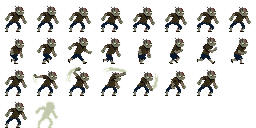
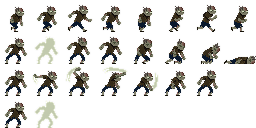
Завершен gameloop, настроены механики нанесения и получения урона

diff --git a/gameScene.py b/gameScene.py
@@ -6,6 +6,8 @@ from gameField import GameField
 import random
 from button import CustomButton
 from animatedSprite import AnimatedSprite
+from enemy import Enemy
+import math
 
 class GameScene(QGraphicsScene):
     def __init__(self, parent=None, width=1200, height=700):
@@ -14,6 +16,14 @@ class GameScene(QGraphicsScene):
         font_id = QFontDatabase.addApplicationFont("source/font/MUNRO-sharedassets0.assets-232.otf")
         font_family = QFontDatabase.applicationFontFamilies(font_id)[0]
         custom_font = QFont(font_family, 14)
+
+        self.stats = {
+                    "record": "0",
+                    "coins": "0",
+                    "damage": "10",
+                    "health": "10",
+                }
+
 
         background = QPixmap("source/bg.png")
         background = background.scaled(width, height, Qt.KeepAspectRatioByExpanding, Qt.SmoothTransformation)
@@ -42,27 +52,18 @@ class GameScene(QGraphicsScene):
         stat_back.setPen(QPen("#673A8A"))
         self.stat_group.addToGroup(stat_back)
 
-        self.stats = {
-            "record": "3",
-            "coins": "324",
-            "attack_speed": "10",
-            "damage": "10",
-            "health": "10",
-            "damage_cost": "20",
-            "health_cost": "20"
-        }
+        
+        self.record_txt = QGraphicsTextItem(f"Рекорд прожитых волн: {self.stats["record"]}")
+        self.record_txt.setDefaultTextColor(Qt.white)
+        self.record_txt.setFont(custom_font)
+        self.record_txt.setPos(20, 20)
+        self.stat_group.addToGroup(self.record_txt)
 
-        record_txt = QGraphicsTextItem(f"Рекорд прожитых волн: {self.stats["record"]}")
-        record_txt.setDefaultTextColor(Qt.white)
-        record_txt.setFont(custom_font)
-        record_txt.setPos(20, 20)
-        self.stat_group.addToGroup(record_txt)
-
-        coin_txt = QGraphicsTextItem(f"Монеты: {self.stats["coins"]}")
-        coin_txt.setDefaultTextColor(Qt.white)
-        coin_txt.setFont(custom_font)
-        coin_txt.setPos(stat_back.boundingRect().width() - 20 - coin_txt.boundingRect().width(), 20)
-        self.stat_group.addToGroup(coin_txt)
+        self.coin_txt = QGraphicsTextItem(f"Монеты: {self.stats["coins"]}")
+        self.coin_txt.setDefaultTextColor(Qt.white)
+        self.coin_txt.setFont(custom_font)
+        self.coin_txt.setPos(stat_back.boundingRect().width() - 20 - self.coin_txt.boundingRect().width(), 20)
+        self.stat_group.addToGroup(self.coin_txt)
 
         anim_lobby = AnimatedSprite("source/hero/lobby2.png", 192, 192, 1, [10])
         anim_lobby.setPos((stat_back.boundingRect().width() - 192) // 2, stat_back.boundingRect().height() // 2 - 130)
@@ -77,7 +78,7 @@ class GameScene(QGraphicsScene):
         health_txt = QGraphicsTextItem(f"Здоровье: {self.stats["health"]}")
         health_txt.setDefaultTextColor(Qt.white)
         health_txt.setFont(custom_font)
-        health_txt.setPos(stat_back.boundingRect().width() // 2 - 20 - coin_txt.boundingRect().width(), 220)
+        health_txt.setPos(stat_back.boundingRect().width() // 2 - 20 - health_txt.boundingRect().width(), 220)
         self.stat_group.addToGroup(health_txt)
 
         self.lobby_group.addToGroup(self.stat_group)
@@ -93,12 +94,7 @@ class GameScene(QGraphicsScene):
         
         self.arena_back = GameField(0, 0, 600, 600)
         self.arena_group.addToGroup(self.arena_back)
-        self.hero = AnimatedSprite("source/hero/hero.png", 96, 96, 4, [10, 16, 7, 4])
-        self.hero_x = (self.arena_back.boundingRect().width() - 96) // 2
-        self.hero_y = (self.arena_back.boundingRect().height() - 96) // 2
-        self.hero.setPos((self.arena_back.boundingRect().width() - 96) // 2,
-                         (self.arena_back.boundingRect().height() - 96) // 2)
-        self.arena_group.addToGroup(self.hero)
+        
 
         self.enemies = []
 
@@ -108,38 +104,83 @@ class GameScene(QGraphicsScene):
         self.arena_group.setAcceptHoverEvents(True) 
         
         # Для плавного движения
-        self.move_speed = 5
+        self.move_speed = 3
         self.keys_pressed = {
             Qt.Key_W: False,
             Qt.Key_A: False,
             Qt.Key_S: False,
             Qt.Key_D: False
-        }
-    
+        } 
 
         self.current_health = 7
+        self.current_wave = 1
+        self.current_money = int(self.stats["coins"])
         # Таймер для обработки движения
         self.timer = QTimer(self)
-        #self.timer.timeout.connect(self.render_enemies)
         self.timer.start(16)  # ~60 FPS
 
     def start_game(self):
         self.removeItem(self.lobby_group)
-        self.timer.timeout.connect(self.render_hero)
+        self.generate_hero()
         self.generate_health()
-        self.generate_enemies(3)
-        self.timer.timeout.connect(self.render_enemies)
-        
+        self.wave_generate()
         self.addItem(self.arena_group)
+        self.timer.timeout.connect(self.render_hero)
+        self.timer.timeout.connect(self.render_enemies)
+        self.timer.timeout.connect(self.wave_generate)
+
+    def wave_generate(self):
+        if self.current_health >= 0:
+            if len(self.enemies) == 0:
+                self.current_wave += 1
+                print(self.current_wave)
+                n = 4
+                if self.current_wave <= 10:
+                    n += self.current_wave
+                else:
+                    n += 10
+                self.generate_enemies(n)
+
+    def generate_hero(self):
+        self.hero = AnimatedSprite("source/hero/hero.png", 96, 96, 4, [10, 16, 7, 4])
+        self.hero.set_animation(0, force_interrupt=True)
+        self.arena_group.addToGroup(self.hero)
+        #self.hero_x = (self.arena_back.boundingRect().width() - 96) // 2
+        #self.hero_y = (self.arena_back.boundingRect().height() - 96) // 2
+        self.hero.setPos((self.arena_back.boundingRect().width() - 96) // 2,
+                         (self.arena_back.boundingRect().height() - 96) // 2)
+        print(self.hero.pos())
+        self.current_health = int(self.stats["health"])
+
+    def end_game(self):
+        for e in self.enemies:
+            e.clear_timer()
+            self.removeItem(e)
+            e = None
+        self.enemies.clear()
+        self.removeItem(self.hero)
+        self.hero = None
+        self.timer.timeout.disconnect(self.render_hero)
+        self.timer.timeout.disconnect(self.render_enemies)
+        self.removeItem(self.arena_group)
+        self.addItem(self.lobby_group)
+        self.timer.timeout.disconnect(self.wave_generate)
+
+        self.update_stat()
 
     def keyPressEvent(self, event):
         if event.key() in self.keys_pressed:
+            if self.hero != None and self.hero.current_animation == 0:
+                self.hero.set_animation(1, force_interrupt=True)
             self.keys_pressed[event.key()] = True
         super().keyPressEvent(event)
     
     def keyReleaseEvent(self, event):
         if event.key() in self.keys_pressed:
             self.keys_pressed[event.key()] = False
+        if all(f is False for f in self.keys_pressed.values()):
+            if self.hero != None:
+                self.hero.set_animation(0, force_interrupt=True)
         super().keyReleaseEvent(event)
 
     def render_hero(self):
@@ -153,14 +194,21 @@ class GameScene(QGraphicsScene):
         min_y = -35
         max_y = self.arena_back.boundingRect().height() - self.hero.boundingRect().height() + 10
         
+        reverse = QTransform()
+            # Перемещаем в центр, отражаем, возвращаем обратно
+        reverse.translate(self.hero.boundingRect().center().x(), self.hero.boundingRect().center().y())
+        reverse.scale(-1, 1)
+        reverse.translate(-self.hero.boundingRect().center().x(), -self.hero.boundingRect().center().y())
         # Обработка движения
         if self.keys_pressed[Qt.Key_W] and y > min_y:
             y -= move_speed
         if self.keys_pressed[Qt.Key_S] and y < max_y:
             y += move_speed
         if self.keys_pressed[Qt.Key_A] and x > min_x:
+            self.hero.setTransform(reverse)
             x -= move_speed
         if self.keys_pressed[Qt.Key_D] and x < max_x:
+            self.hero.setTransform(QTransform().scale(1, 1))
             x += move_speed
         
         # Обновляем позицию
@@ -179,7 +227,6 @@ class GameScene(QGraphicsScene):
         self.arena_group.addToGroup(healthbar)
         healthbar.setPos((600 - 30 * int(self.stats["health"]) + 5) // 2,
                          600 - 40)
-        print(healthbar.boundingRect().width())
             
     def generate_enemies(self, n):
         min_x = 0
@@ -187,13 +234,11 @@ class GameScene(QGraphicsScene):
         min_y = 0
         max_y = self.arena_back.boundingRect().height() - 32
         for _ in range(n):
-            #enemy = QGraphicsRectItem(0, 0, 30, 30)
-            enemy = AnimatedSprite("source/hero/Zombie.png", 32, 32, 4, [8, 8, 7, 2] )
-            enemy.set_animation(1, force_interrupt=True)
+            enemy = Enemy("source/hero/Zombie.png", 32, 32, 4, [8, 8, 7, 2], 20)
+            enemy.set_animation(0, force_interrupt=True)
             
-            #enemy.setBrush(QBrush("#DB0909"))
             x, y = random.uniform(min_x, max_x), random.uniform(min_y, max_y)
-            while (x - self.hero.pos().x()) ** 2 + (y - self.hero.pos().y()) ** 2 < 50:
+            while (x - self.hero.pos().x()) ** 2 + (y - self.hero.pos().y()) ** 2 < 200:
                 x, y = random.uniform(min_x, max_x), random.uniform(min_y, max_y)
             self.enemies.append(enemy)
             self.arena_group.addToGroup(enemy)
@@ -204,44 +249,90 @@ class GameScene(QGraphicsScene):
         max_x = self.arena_back.boundingRect().width() - 32
         min_y = 0
         max_y = self.arena_back.boundingRect().height() - 32
-
+        hero_x = self.hero.pos().x() + 48
+        hero_y = self.hero.pos().y() + 48
         for enemy in self.enemies:
+            if enemy.is_dead():
+                continue
             x = enemy.pos().x()
             y = enemy.pos().y()
+            vector = (x + 16 - hero_x, y + 16 - hero_y)
+            sinus = abs(vector[1]) / (vector[0] ** 2 + vector[1] ** 2) ** 0.5
+            cosinus = abs(vector[0]) / (vector[0] ** 2 + vector[1] ** 2) ** 0.5
+            
             speed = 1
+            coll, coll_vector = self.collision(enemy)
+            if coll:
+                enemy.setPos(x + coll_vector[0], y + coll_vector[1])
+                continue
 
-            # if self.collision(enemy) == True:
-            #     continue
             reverse = QTransform()
             # Перемещаем в центр, отражаем, возвращаем обратно
             reverse.translate(enemy.boundingRect().center().x(), enemy.boundingRect().center().y())
             reverse.scale(-1, 1)
             reverse.translate(-enemy.boundingRect().center().x(), -enemy.boundingRect().center().y())
 
-
-
             if x > self.hero.pos().x() + 32 and x > min_x:
-                enemy.setTransform(reverse)
-                x -= speed
+                if x > self.hero.pos().x() + 32 + 20:
+                    enemy.setTransform(reverse)
+                x -= speed * cosinus
             elif x < self.hero.pos().x() + 32 and x < max_x:
                 enemy.setTransform(QTransform().scale(1, 1))
-                x += speed
+                x += speed * cosinus
             if y > self.hero.pos().y() + 32 and y > min_y:
-                y -= speed
+                y -= speed * sinus
             elif y < self.hero.pos().y() + 32 and y < max_y:
-                y += speed
+                y += speed * sinus
             
             enemy.setPos(x, y)
     
-    def attack_hero(self):
-        print("attack")
+    def attack_hero(self, position):
+        self.hero.set_animation(2, loop=False)
+        hero_x = self.hero.pos().x() + 48
+        hero_y = self.hero.pos().y() + 48
+        h_v = (position.x() - hero_x, position.y() - hero_y)
         for enemy in self.enemies:
-            enemy.set_animation(3, loop=False)
+            if enemy.is_dead():
+                continue
+            x = enemy.pos().x() + 16
+            y = enemy.pos().y() + 16
+            e_v = (x - hero_x, y - hero_y)
+            cos_value = (h_v[0] * e_v[0] + h_v[1] * e_v[1]) / ((h_v[0] ** 2 + h_v[1] ** 2) * (e_v[0] ** 2 + e_v[1] ** 2)) ** 0.5
+            arccos = math.acos(cos_value)
+            if arccos < 0.5 and (e_v[0] ** 2 + e_v[1] ** 2) ** 0.5 < 70:
+                enemy.get_damage(int(self.stats["damage"]))
+                if enemy.is_dead():
+                    enemy.die()
+                    self.enemies.remove(enemy)
+                    self.current_money += 1
+                    print(self.current_money)
+                else:
+                    enemy.set_animation(3, loop=False)
 
-    # def collision(self, enemy):
-    #     for e in self.enemies:
-            
-    #         if (e.pos().x() - enemy.pos().x()) ** 2 + (e.pos().y() - enemy.pos().y()) ** 2 < 32 and e != enemy:
-    #             return True
+    def attack_enemy(self, enemy):
+        hero_x = self.hero.pos().x() + 48
+        hero_y = self.hero.pos().y() + 48
+        x = enemy.pos().x() + 16
+        y = enemy.pos().y() + 16
+        e_v = (x - hero_x, y - hero_y)
+        if (e_v[0] ** 2 + e_v[1] ** 2) ** 0.5 < 40:
+            enemy.set_animation(2, loop=False)
+            self.hero.set_animation(3, loop=False)
+            self.current_health -= 1
+            if self.current_health <= 0:
+                self.end_game()
+            self.generate_health()
 
-    #     return False
+    def collision(self, enemy):
+        for e in self.enemies:
+            abs_vect = ((e.pos().x() - enemy.pos().x()) ** 2 + (e.pos().y() - enemy.pos().y()) ** 2) ** 0.5
+            if abs_vect < 32 and e != enemy:
+                return True, ((enemy.pos().x() - e.pos().x()) / abs_vect, (enemy.pos().y() - e.pos().y()) / abs_vect)
+        return False, tuple()
+    
+    def update_stat(self):
+        if self.current_wave > int(self.stats["record"]):
+            self.stats["record"] = str(self.current_wave)
+        self.stats["coins"] = self.current_money
+        self.record_txt.setPlainText(f"Рекорд прожитых волн: {self.stats["record"]}")
+        self.coin_txt.setPlainText(f"Монеты: {self.stats["coins"]}")

diff --git a/enemy.py b/enemy.py
@@ -1,0 +1,30 @@
+from animatedSprite import AnimatedSprite
+from PySide6.QtCore import Qt, QTimer
+
+class Enemy(AnimatedSprite):
+    def __init__(self, sprite_sheet_path, frame_width, frame_height, rows, cols, health = 10):
+        super().__init__(sprite_sheet_path, frame_width, frame_height, rows, cols)
+        self.health = health
+
+        self.etimer = QTimer(self.scene())
+        self.etimer.timeout.connect(self.attack)
+        self.etimer.start(1000)  # ~60 FPS
+    
+    def get_damage(self, d):
+        self.health -= d
+
+    def is_dead(self):
+        return True if self.health <= 0 else False
+    
+    def die(self):
+        if self.is_dead():
+            self.set_animation(1)
+            QTimer.singleShot(480, lambda: [self.scene().removeItem(self)])
+
+    def attack(self):
+        self.scene().attack_enemy(self)
+        
+    def clear_timer(self):
+        self.etimer.stop()  # Останавливаем
+        self.etimer.deleteLater()  # Помечаем на удаление
+        self.etimer = None

diff --git a/animatedSprite.py b/animatedSprite.py
@@ -45,7 +45,7 @@ class AnimatedSprite(QGraphicsPixmapItem):
                 animation_frames.append(frame)
             self.frames.append(animation_frames)
 
-    def set_animation(self, animation_index, loop=True, force_interrupt=False):
+    def set_animation(self, animation_index, loop=True, force_interrupt=True):
         """
         Переключает анимацию с приоритетом.
         Параметры:

diff --git a/gameField.py b/gameField.py
@@ -11,6 +11,6 @@ class GameField(QGraphicsRectItem):
     
     def mousePressEvent(self, event):
         if event.button() == Qt.LeftButton:
-            self.scene().attack_hero()
+            self.scene().attack_hero(event.pos())
         # Важно вызвать родительский метод, чтобы не блокировать события
         super().mousePressEvent(event)

diff --git a/main.py b/main.py
@@ -22,11 +22,6 @@ class GameWindow(QMainWindow):
         self.view.setHorizontalScrollBarPolicy(Qt.ScrollBarAlwaysOff)
         self.view.setVerticalScrollBarPolicy(Qt.ScrollBarAlwaysOff)
         self.setCentralWidget(self.view)
-        
-        
-    def delete_en(self):
-        for e in self.Enemies:
-            self.scene.removeItem(e.get_regdoll())
 
 
 if __name__ == "__main__":
